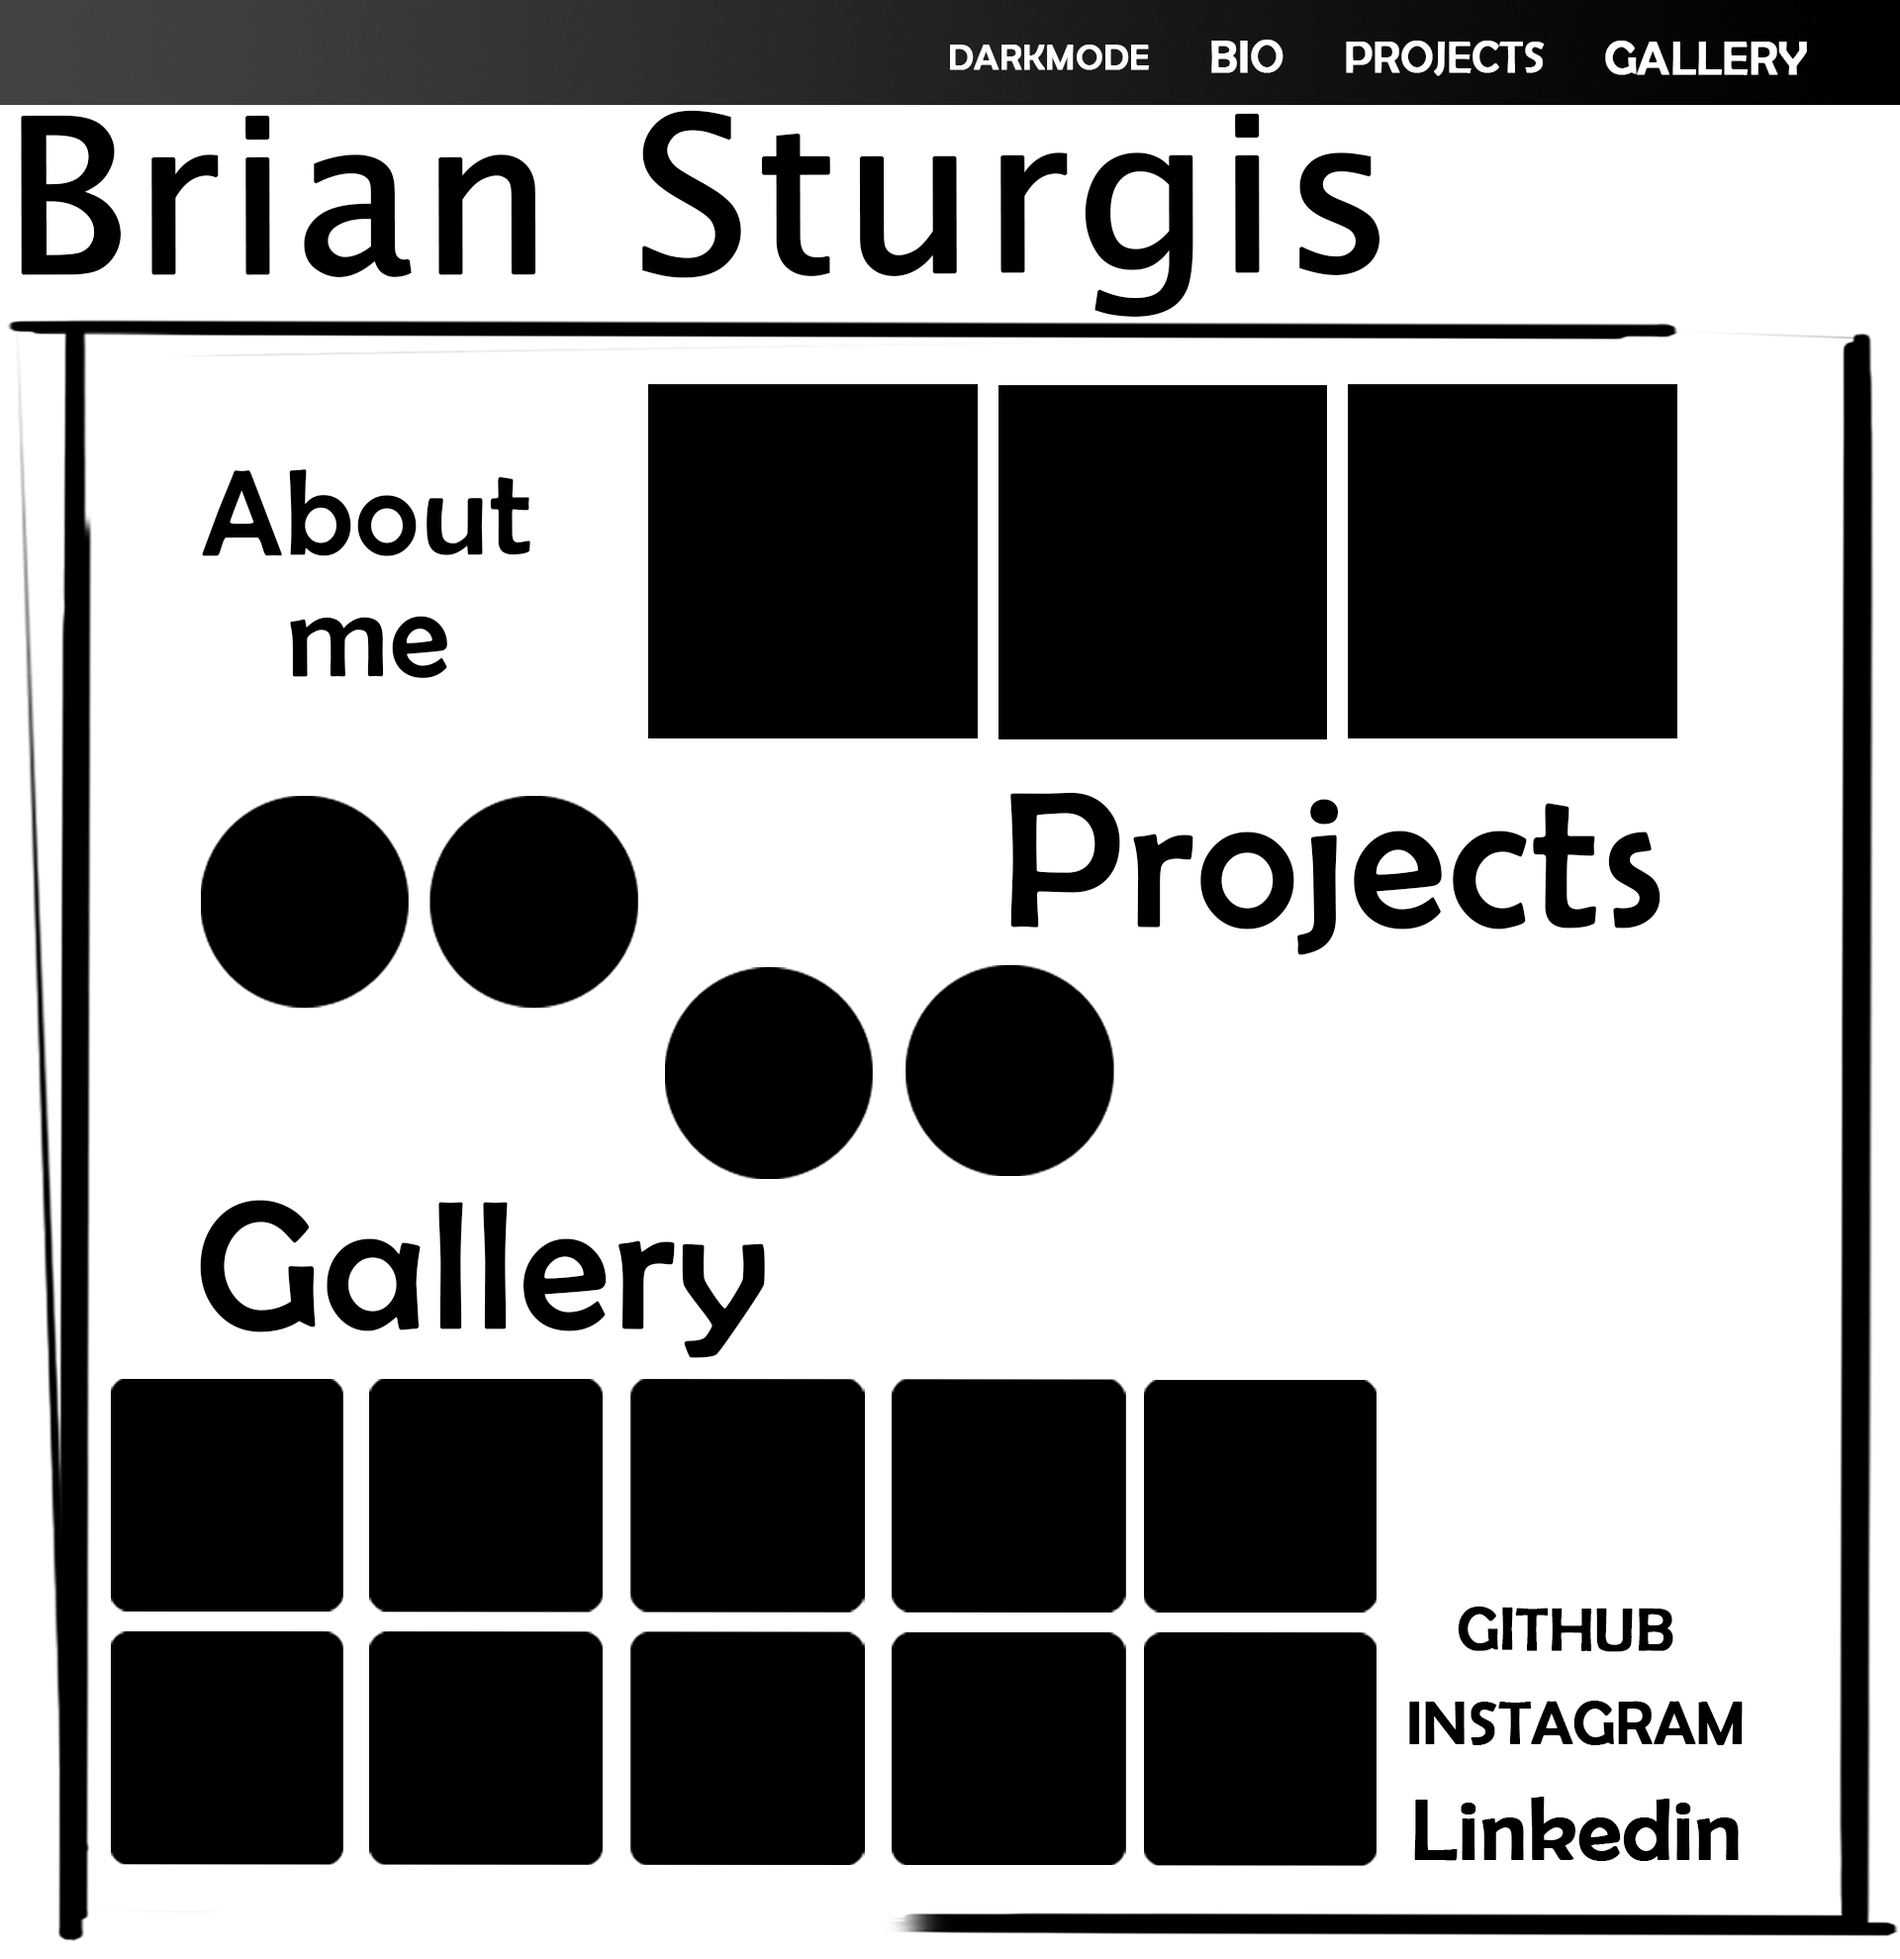
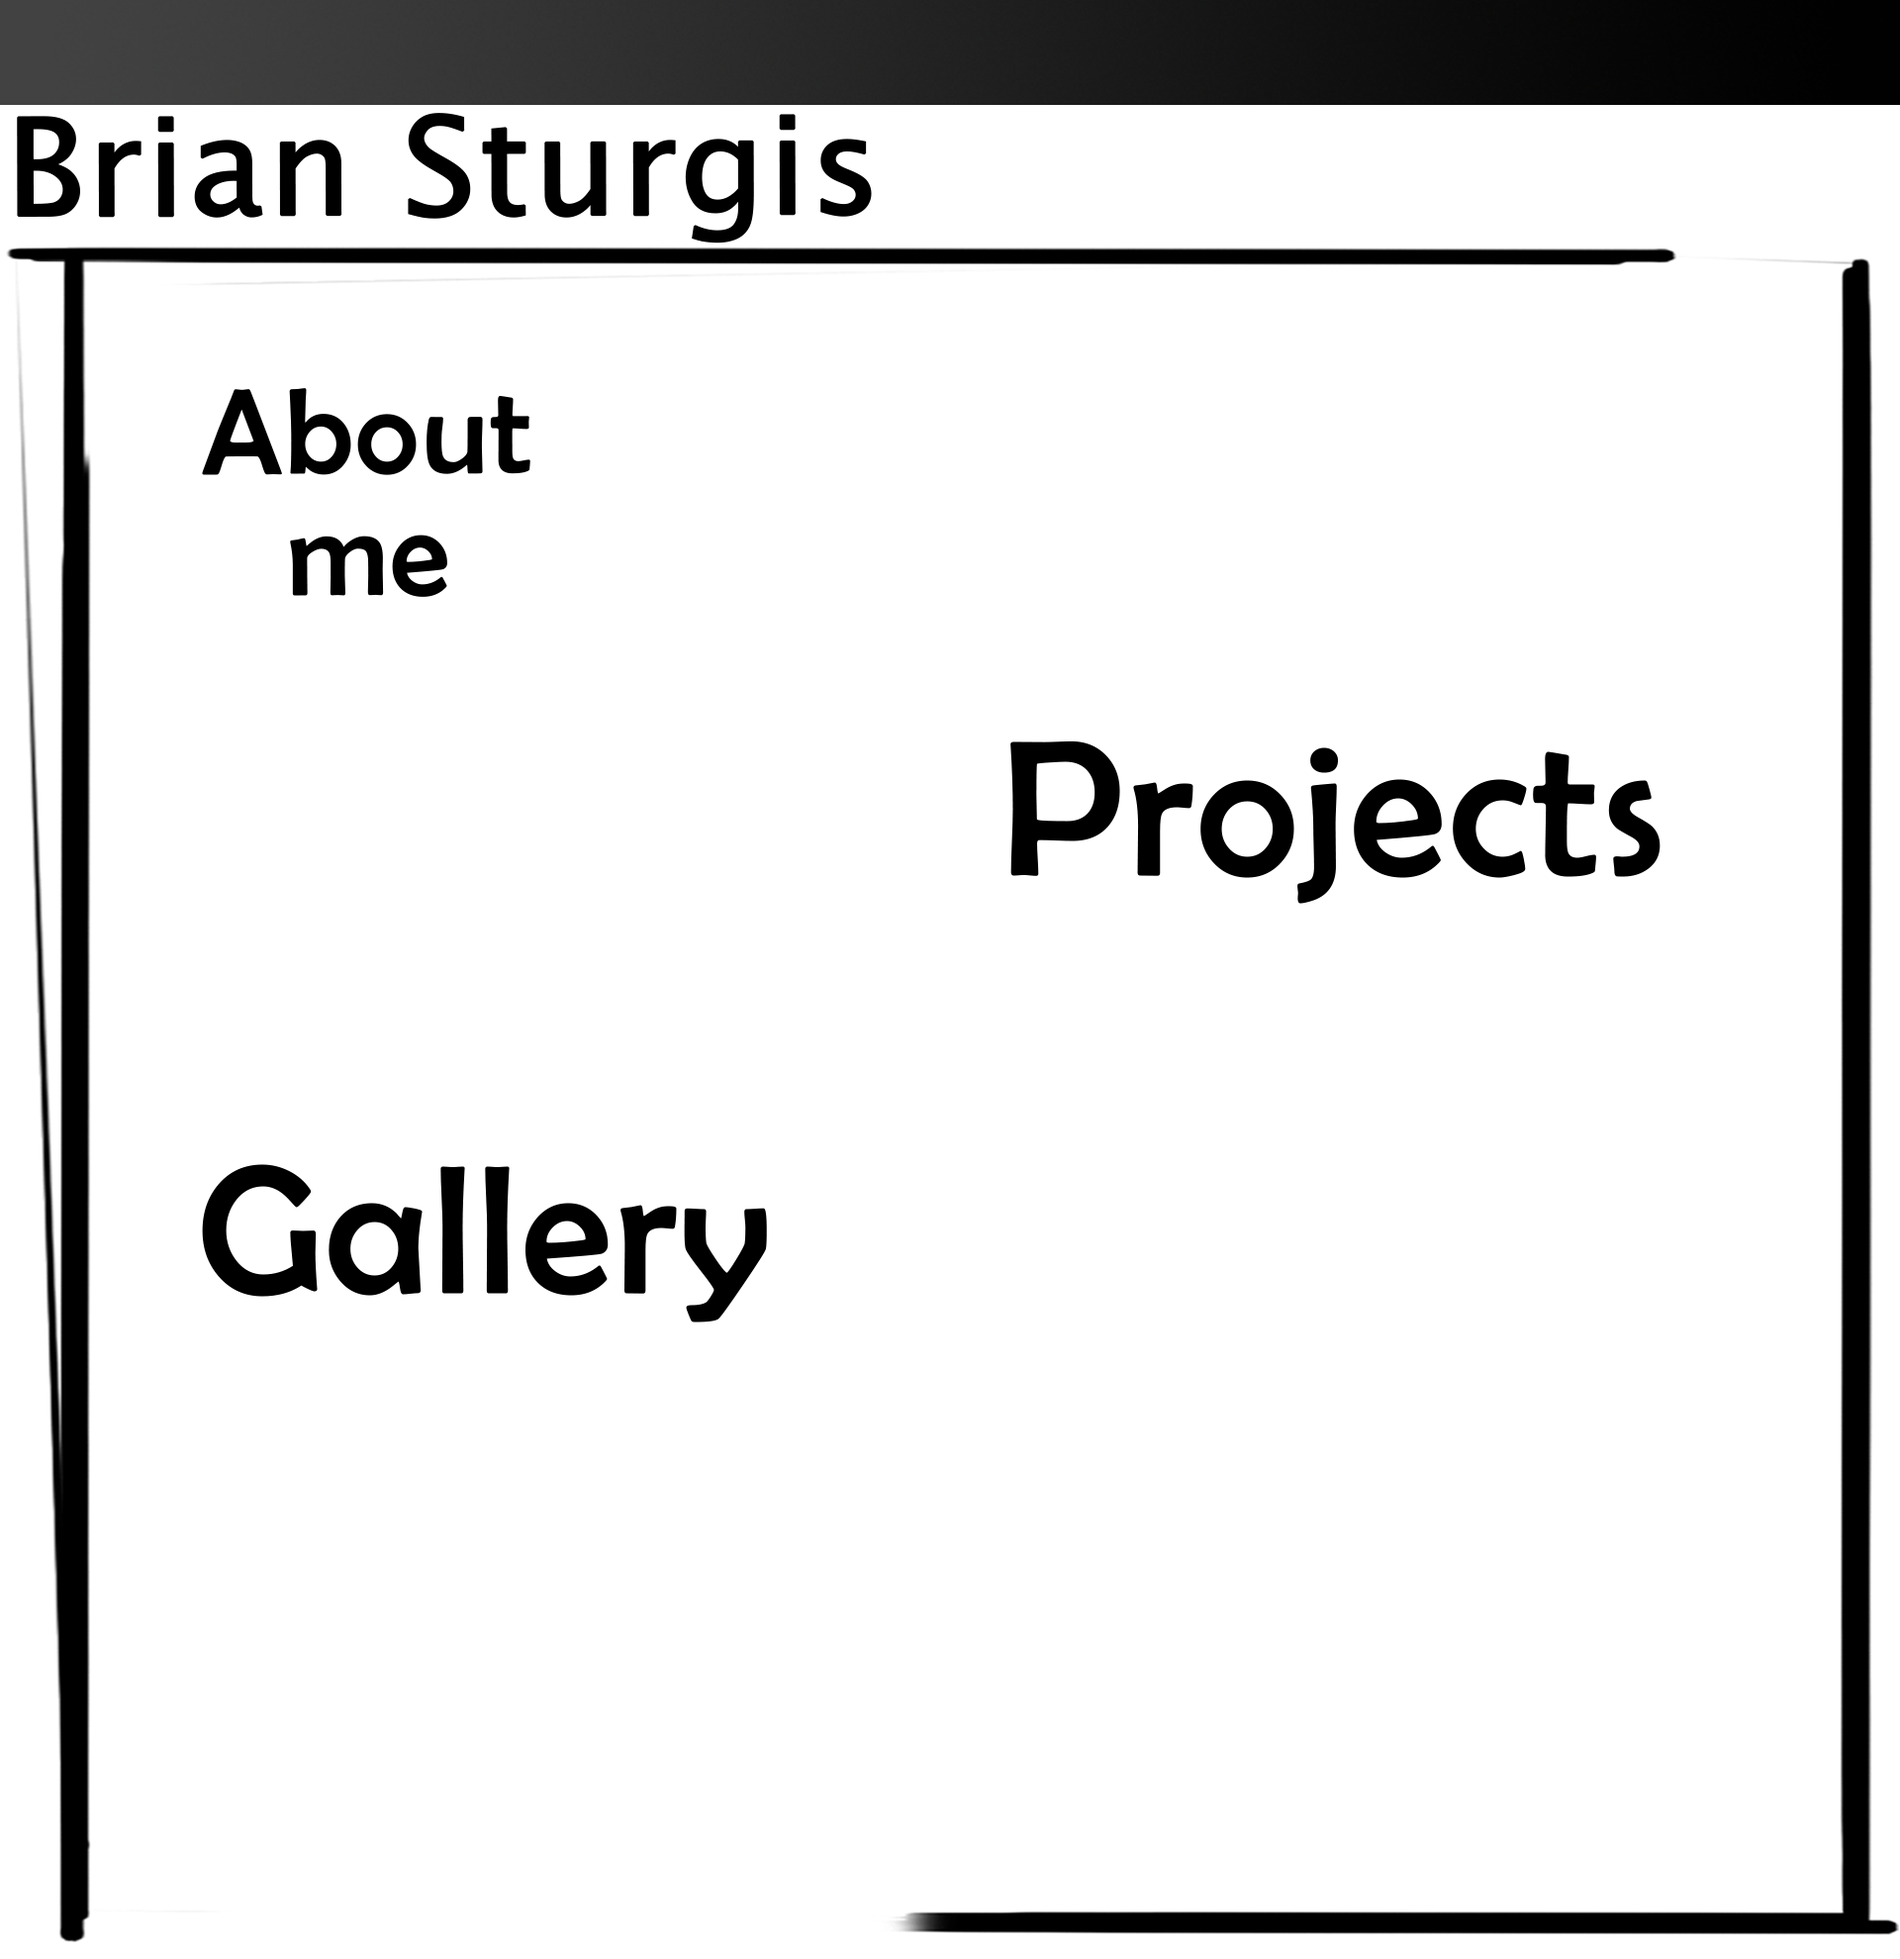
add more stying to home.css

diff --git a/home.html b/home.html
@@ -12,16 +12,15 @@
   <title>HOME</title>
 </head>
 <body>
-  <!-- <nav>
-    <ul>
-      <li><a href="aboutMe.html" type="button" class="btn btn-link" id="aboutMe">ABOUT ME</a></li>
-      <li></li><a href="projects.html" type="button" class="btn btn-link" id="projects">PROJECTS</a></li>
-      <li></li><a href="gallery.html" type="button" class="btn btn-link" id="gallery">GALLERY</a></li> 
-      <li></li><a href="DmHome.html" type="button" class="btn btn-link" id="darkMode">DARKMODE</a></li> 
-    </ul>
-  </nav>  -->
-  <div class="template"> 
-    <img src="assets/teplate.png" alt="web template wireframe">
-  </div> 
+  <div class="container" id="widget">
+    </div>
+    <nav>
+      <a href="gallery.html" input type="image" id="gallerybutton" alt="gallery.html" 
+      src="assets/gallerybutton.png"></a>
+    </nav> 
+    <div class="templatewireframe"> 
+      <img src="assets/teplate.png" alt="web template wireframe">
+    </div> 
+  </div>
 </body>
 </html>

diff --git a/projects.html b/projects.html
@@ -10,17 +10,18 @@
   <script src="js/scripts.js"></script>
   <title>PROJECTS</title>
 </head>
-  <div class="container">
+  <body>
     <div id="background">
       <div class="projectsMeButtons">
-        <a href="home.html" type="button" class="btn btn-link" id="home">HOME</a>
+        <a href="home.html" type="image" class="btn btn-link" id="home">HOME</a>
         <a href="projects.html" type="button" class="btn btn-link" id="projects">PROJECTS</a>
         <a href="gallery.html" type="button" class="btn btn-link" id="gallery">GALLERY</a> 
         <a href="Dmprojects.html" type="button" class="btn btn-link" id="darkMode">DARKMODE</a> 
       </div>
-      <div class="navbar"> 
-        <h1>mother fucking projects</h1>
+      <div class="templatewireframe"> 
+        <img src="assets/teplate.png" alt="web template wireframe">
       </div> 
     </div>
-  </div>
+    
+  </body>
 </html>

diff --git a/css/homeStyles.css b/css/homeStyles.css
@@ -2,14 +2,23 @@
   padding: 0;
   margin: 0;
   box-sizing: border-box;
-  background-color: aqua;
+  background-color:aqua
 }
-.template{
-  padding: 20;
+.templatewireframe{
+  
+  background-image: url("assets/teplate.png") ;
   
 }
-nav {
-  position: absolute;
+#gallerybutton{
+  
+    
+    -moz-transform: matrix( 1.24707436193424,0,-7.36707824699502e-15,1.24707436193425,0,0);
+    -webkit-transform: matrix( 1.24707436193424,0,-7.36707824699502e-15,1.24707436193425,0,0);
+    -ms-transform: matrix( 1.24707436193424,0,-7.36707824699502e-15,1.24707436193425,0,0);
+    position: absolute;
+    left: 1378.218px;
+    top: 81.754px;
+    z-index: 217;
+  
   
 }
-

diff --git a/css/styles.css b/css/styles.css
@@ -3,12 +3,19 @@
   margin: 0;
   box-sizing: border-box;
 }
+
 body {
   width: 100%;
   height: 100%;
   background-image: url("./../assets/Monitor_Frame_copy_3.png");
   position: absolute;
-  background-color: aqua;
+  background-color: #cccccc;
+  background-repeat: no-repeat;
+  background-attachment: fixed;
+  background-size: cover;
+  -webkit-background-size: cover;
+  -moz-background-size: cover;
+  -o-background-size: cover;
 }
 .greeting{
     position: absolute;
@@ -18,6 +25,8 @@ body {
     height: 151px;
     z-index: 1;
 }
+
+
 #enter {
   position: absolute;
   left: 1430px;

diff --git a/css/projectStyes.css b/css/projectStyes.css
@@ -2,4 +2,14 @@
   padding: 0;
   margin: 0;
   box-sizing: border-box;
+  background-color:aqua
 }
+.templatewireframe{
+  background-image: url("assets/teplate.png");
+  position: absolute;
+}
+
+/* .projectsMeButtons{
+  position: overlay;
+  
+} */
